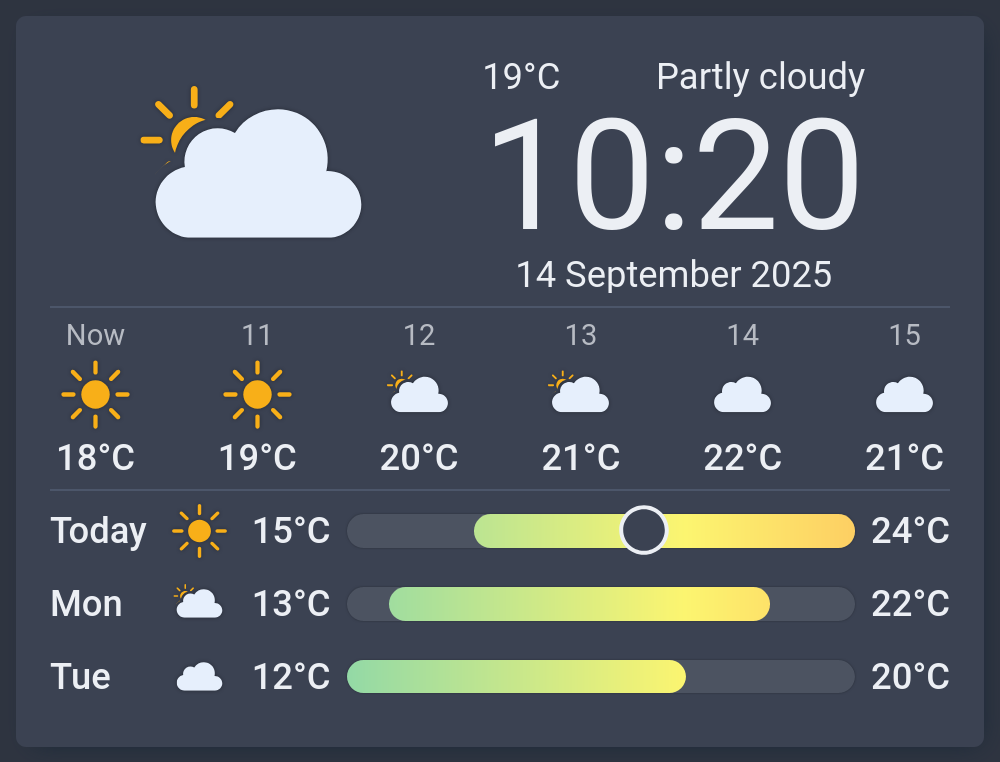
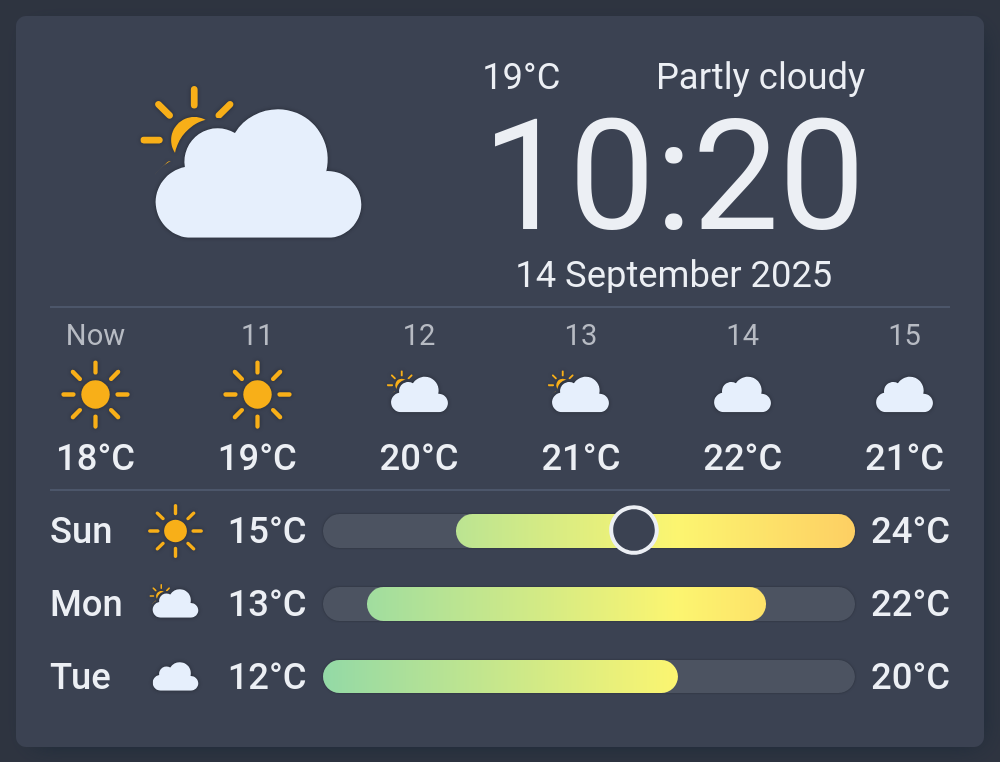
fix(forecast-list): label today's daily row with its weekday instead of "Today"
In many languages "Today" is much longer than a weekday abbreviation
(Russian "Сегодня" vs. "пн") and pushed today's row out of alignment
with the others. The daily forecast list now labels every row with its
weekday. The daily forecast strip keeps "Today", where the column is
wide enough for it.

diff --git a/e2e/sections/forecast-list.spec.ts b/e2e/sections/forecast-list.spec.ts
@@ -69,17 +69,15 @@ test.describe('forecast_list section', () => {
       .toHaveText('19°C')
   })
 
-  test('labels today\'s row with the localized "Today" string and uses weekday names for the rest', async ({ setupCard, clockWeatherCard }) => {
+  test('labels every row, today included, with its weekday abbreviation', async ({ setupCard, clockWeatherCard }) => {
     await setupCard({
       weather: { forecast_daily: DAILY },
     })
 
     const items = clockWeatherCard.locator('clock-weather-card-forecast-list-item')
-    // 2025-09-14 is a Sunday, but the first row is "today" regardless of weekday.
     await expect(items.nth(0)
       .locator('.label'))
-      .toHaveText('Today')
-    // Subsequent rows show weekday abbreviations from the locale.
+      .toHaveText('Sun')
     await expect(items.nth(1)
       .locator('.label'))
       .toHaveText('Mon')
@@ -249,7 +247,7 @@ test.describe('forecast_list section', () => {
 
       const items = clockWeatherCard.locator('clock-weather-card-forecast-list-item')
       await expect(items.locator('.label'))
-        .toHaveText(['Today', 'Mon'])
+        .toHaveText(['Sun', 'Mon'])
       await expect(items.locator('.temperature-low'))
         .toHaveText(['10°C', '8°C'])
       await expect(items.locator('.temperature-high'))
@@ -273,7 +271,7 @@ test.describe('forecast_list section', () => {
 
     const items = clockWeatherCard.locator('clock-weather-card-forecast-list-item')
     await expect(items.locator('.label'))
-      .toHaveText(['Today', 'Mon'])
+      .toHaveText(['Sun', 'Mon'])
     await expect(items.locator('.temperature-low'))
       .toHaveText(['14°C', '11°C'])
     await expect(items.locator('.temperature-high'))
@@ -295,7 +293,7 @@ test.describe('forecast_list section', () => {
     await expect(clockWeatherCard.locator('clock-weather-card-forecast-list-item')
       .first()
       .locator('.label'))
-      .toHaveText('Today')
+      .toHaveText('Sun')
   })
 
   test('uses the night icon only on today\'s row, driven by the live sun entity state', async ({ setupCard, clockWeatherCard }) => {

diff --git a/src/components/abstract-forecast-section.ts b/src/components/abstract-forecast-section.ts
@@ -79,7 +79,7 @@ abstract class AbstractForecastSection extends AbstractClockWeatherCardComponent
   }
 
   /** Hourly: the entry at or before now ("Now") plus upcoming hours. Daily: today ("Today") onwards. Temperatures are in the configured unit. */
-  protected visibleRows(count: number, timePattern: string): ForecastRow[] {
+  protected visibleRows(count: number, timePattern: string, labelToday = true): ForecastRow[] {
     const now = this.currentDate
     const { locale, timeZone, sun_entity, temperatureUnit } = this.config
     const sourceUnit = hassService.getEntityAttributeString(this.hass, this.resolveEntityId(), 'temperature_unit')
@@ -130,7 +130,7 @@ abstract class AbstractForecastSection extends AbstractClockWeatherCardComponent
           forecast,
           at,
           isCurrent,
-          label: isCurrent ? todayLabel : at.toFormat('ccc'),
+          label: isCurrent && labelToday ? todayLabel : at.toFormat('ccc'),
           // A daily entry's `datetime` is only a day marker, so day/night can't be derived from it.
           isNight: isCurrent && hassService.isNight(this.hass, sun_entity),
         }

diff --git a/src/components/clock-weather-card-forecast-list.ts b/src/components/clock-weather-card-forecast-list.ts
@@ -108,7 +108,7 @@ class ClockWeatherCardForecastList extends AbstractForecastSection {
     const hourly = forecastType === 'hourly'
     const format = (t: number): string => formatWithUnit(formatNumber(round_temperatures ? Math.round(t) : t, this.config), attribute_unit ?? temperatureUnit)
 
-    return this.visibleRows(count, time_pattern)
+    return this.visibleRows(count, time_pattern, false)
       .map((row, i, rows) => {
         const tempValues = (hourly
           ? [row.forecast.temperature, i === 0 ? currentTempRaw ?? row.forecast.temperature : rows[i - 1].forecast.temperature]
@@ -132,7 +132,7 @@ class ClockWeatherCardForecastList extends AbstractForecastSection {
   private _attributeBars(attribute: string): ListBar[] {
     const { attribute_unit, count, time_pattern } = this.config.forecast_list
     const unit = attribute_unit ?? this.forecastAttributeUnit(attribute)
-    return this.visibleRows(count, time_pattern)
+    return this.visibleRows(count, time_pattern, false)
       .map((row) => {
         const value = forecastAttributeValue(row.forecast, attribute)
         return {

diff --git a/e2e/config-options/sections/forecast-list/forecast-type.spec.ts b/e2e/config-options/sections/forecast-list/forecast-type.spec.ts
@@ -66,7 +66,7 @@ test.describe('sections.forecast_list.forecast_type', () => {
     const items = clockWeatherCard.locator('clock-weather-card-forecast-list-item')
     await expect(items.nth(0)
       .locator('.label'))
-      .toHaveText('Today')
+      .toHaveText('Sun')
 
     await setupCard({
       date: NOW,

diff --git a/README.md b/README.md
@@ -457,7 +457,7 @@ When the configured columns do not fit the card width, the strip scrolls horizon
 
 Renders a vertical list of upcoming days (`forecast_type: daily`, default) or hours (`forecast_type: hourly`) below the forecast strip. Each row shows a label, a weather icon, a low and high temperature, and a horizontal temperature bar. All bars share a single axis from the lowest low to the highest high across the visible rows, and each bar's gradient covers the configured color ramp clipped to that row's range.
 
-In daily mode, each row spans the day's low and high. Today's row is labeled "Today" (localized) and shows a dot indicator at the current temperature on its bar.
+In daily mode, each row spans the day's low and high. Every row is labeled with its weekday, and today's row shows a dot indicator at the current temperature on its bar.
 
 In hourly mode, the first row is labeled "Now" and the others show the time (see `time_pattern`). Each row's bar spans from the previous hour's temperature to this hour's; the "Now" row starts from the current temperature and shows the current-temperature dot.
 
